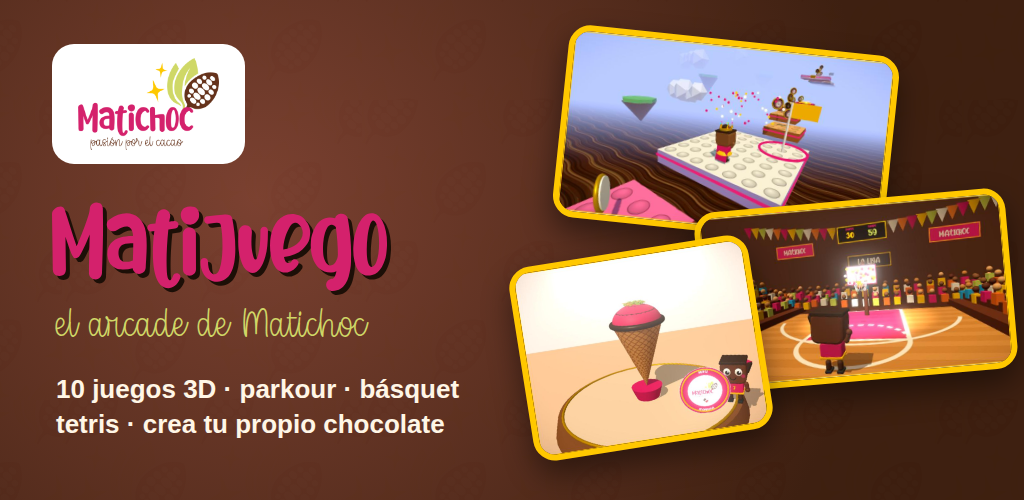
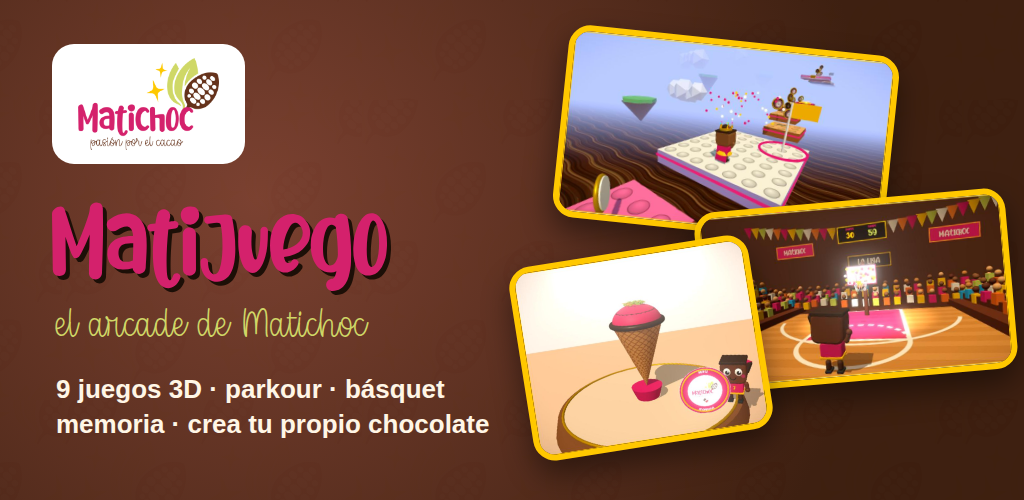
App infantil: sin Choco Blaster (ni su logro), apodos en vez de nombres, textos de la ficha y guía actualizados
Claude-Session: https://claude.ai/code/session_01RNcuEEBSVAK2hQJV4aj3Vh

Changed region(s): [[0.0312, 0.75, 0.5, 0.87]]

diff --git a/app/index.html b/app/index.html
@@ -26,7 +26,7 @@
       <div id="profile-grid" class="profile-grid"></div>
 
       <div id="new-profile-form" class="new-profile-form hidden">
-        <input id="new-profile-name" class="text-input" type="text" maxlength="16" placeholder="Nombre del jugador">
+        <input id="new-profile-name" class="text-input" type="text" maxlength="16" placeholder="Nombre o apodo">
         <div class="menu-secondary-row">
           <button id="btn-create-profile" class="btn-primary">Crear perfil</button>
           <button id="btn-cancel-profile" class="btn-secondary">Cancelar</button>
@@ -67,7 +67,7 @@
           <div class="lb-stage-actions">
             <button id="btn-open-shop" class="btn-primary lb-shop">👕 Vestuario y Tienda</button>
           </div>
-          <label class="field-label" for="input-name">Tu nombre en los puntajes</label>
+          <label class="field-label" for="input-name">Tu apodo en los puntajes</label>
           <input id="input-name" class="text-input lb-name" type="text" maxlength="16" placeholder="Jugador">
         </aside>
 
@@ -412,85 +412,7 @@
     </div>
   </section>
 
-  <!-- PANTALLA DE JUEGO: CHOCO BLASTER 3D (primera persona, propuesta) -->
-  <section id="screen-fps" class="screen game-screen hidden">
-    <div id="fps-hud" class="hud fps-hud">
-      <div class="hud-left">
-        <button id="fps-btn-menu" class="btn-icon" title="Volver al menú">🏠</button>
-        <img id="fps-hud-avatar" class="hud-avatar" alt="">
-        <div>
-          <div class="hud-level">Choco Blaster 3D</div>
-          <div class="hud-mission">Baña de chocolate a los malvaviscos</div>
-        </div>
-      </div>
-      <div class="hud-right">
-        <div class="hud-chip">⭐ <span id="fps-hud-score">0</span></div>
-        <div class="hud-chip">🌊 <span id="fps-hud-wave">0</span></div>
-        <div class="hud-chip">🔥 <span id="fps-hud-combo">x1</span></div>
-        <div class="hud-chip">🍫✨ <span id="fps-hud-coins">0</span></div>
-        <button id="fps-btn-full" class="btn-icon" title="Pantalla completa">⛶</button>
-        <button id="fps-btn-mute" class="btn-icon" title="Silenciar sonido">🔊</button>
-      </div>
-    </div>
-
-    <div id="fps-canvas-wrap" class="canvas-wrap fps-wrap">
-      <canvas id="fps-canvas"></canvas>
-      <div class="fps-crosshair" aria-hidden="true"><i></i><i></i><i></i><i></i></div>
-      <div id="fps-hitmarker" class="fps-hitmarker" aria-hidden="true"></div>
-      <div id="fps-vignette" class="fps-vignette" aria-hidden="true"></div>
-      <div id="fps-banner" class="fps-banner" aria-live="polite"></div>
-      <div id="fps-popups" class="fps-popups" aria-hidden="true"></div>
-      <div class="fps-hud-bottom">
-        <div id="fps-hearts" class="fps-hearts" aria-label="Vidas"></div>
-        <div class="fps-ammo">
-          <span id="fps-ammo">12/12</span>
-          <div class="fps-reload"><i id="fps-reload-bar"></i></div>
-        </div>
-      </div>
-
-      <div id="fps-touch" class="fps-touch">
-        <div id="fps-joy-zone" class="fps-joy-zone"><div class="fps-joy-base"><div id="fps-joy-knob" class="fps-joy-knob"></div></div></div>
-        <div id="fps-look-zone" class="fps-look-zone"></div>
-        <button id="fps-btn-fire" class="fps-tbtn fps-tbtn-fire" aria-label="Disparar">🍫</button>
-        <button id="fps-btn-jump" class="fps-tbtn fps-tbtn-jump" aria-label="Saltar">⤴</button>
-        <button id="fps-btn-reload" class="fps-tbtn fps-tbtn-reload" aria-label="Recargar">⟳</button>
-      </div>
-
-      <div id="fps-overlay-intro" class="overlay hidden">
-        <div class="overlay-card">
-          <h2>Choco Blaster 3D</h2>
-          <p class="fps-tag">Propuesta jugable · primera persona</p>
-          <p>Los malvaviscos se colaron a la feria de Matichoc. ¡Báñalos de chocolate
-            con tu Choco Blaster antes de que te abracen! Apunta a la cabeza para
-            un cabezazo (daño doble) y encadena baños para subir el combo.</p>
-          <p class="fps-controls-hint fps-pc-hint"><b>PC:</b> mouse para apuntar · click para disparar · WASD moverse ·
-            ESPACIO saltar · SHIFT correr · R recargar · ESC pausa.</p>
-          <p class="fps-controls-hint fps-mobile-hint"><b>Celular:</b> joystick a la izquierda para moverte, arrastra a la derecha para mirar, 🍫 para disparar.</p>
-          <button class="btn-primary" id="fps-btn-start">¡A la feria!</button>
-        </div>
-      </div>
-
-      <div id="fps-overlay-paused" class="overlay hidden">
-        <div class="overlay-card">
-          <h2>Pausa</h2>
-          <p>Haz click para volver a la acción.</p>
-          <button class="btn-primary" id="fps-btn-resume">Continuar</button>
-          <button class="btn-secondary overlay-secondary-btn" id="fps-btn-paused-menu">Volver al menú</button>
-        </div>
-      </div>
-
-      <div id="fps-overlay-gameover" class="overlay hidden">
-        <div class="overlay-card">
-          <h2>¡Te abrazaron los malvaviscos!</h2>
-          <p id="fps-gameover-text"></p>
-          <button class="btn-primary" id="fps-btn-retry">Reintentar</button>
-          <button class="btn-secondary overlay-secondary-btn" id="fps-btn-gameover-menu">Volver al menú</button>
-        </div>
-      </div>
-    </div>
-  </section>
-
-  <!-- PANTALLA DE JUEGO 3D: SALTO CHOCO 3D -->
+<!-- PANTALLA DE JUEGO 3D: SALTO CHOCO 3D -->
   <section id="screen-salto" class="screen game-screen hidden">
     <div id="salto-hud" class="hud">
       <div class="hud-left">

diff --git a/js/games-catalog.js b/js/games-catalog.js
@@ -3,7 +3,11 @@
 // lo único que cambia es la mecánica y las canchas de cada modo.
 // Ver ROADMAP.md para el plan de etapas de cada juego "próximamente".
 
-export const GAMES_CATALOG = [
+// En la app de tienda (data-app="1") se ocultan los juegos marcados con `appHidden`:
+// la app está pensada para público infantil y no incluye juegos de "disparos".
+const IN_APP = typeof document !== "undefined" && document.documentElement.dataset.app === "1";
+
+const ALL_GAMES = [
   {
     id: "recolecta",
     name: "Recolecta y Corre",
@@ -74,6 +78,7 @@ export const GAMES_CATALOG = [
     icon: "🎯",
     tagline: "Primera persona: baña de chocolate a los malvaviscos traviesos.",
     status: "available",
+    appHidden: true,
     tag: "3D",
   },
   {
@@ -85,3 +90,5 @@ export const GAMES_CATALOG = [
     tag: "3D",
   },
 ];
+
+export const GAMES_CATALOG = ALL_GAMES.filter((g) => !(IN_APP && g.appHidden));

diff --git a/js/achievements.js b/js/achievements.js
@@ -4,7 +4,9 @@
 
 import { getBestScore } from "./storage.js";
 
-export const ACHIEVEMENTS = [
+const IN_APP = typeof document !== "undefined" && document.documentElement.dataset.app === "1";
+
+const ALL_ACHIEVEMENTS = [
   {
     id: "primeros_pasos",
     name: "Primeros pasos",
@@ -59,6 +61,7 @@ export const ACHIEVEMENTS = [
     icon: "🎯",
     reward: 25,
     desc: "Consigue 1500 puntos en Choco Blaster 3D.",
+    appHidden: true, // Choco Blaster no va en la app infantil
     isDone: (p) => getBestScore(p, "fps3d") >= 1500,
   },
   {
@@ -118,3 +121,5 @@ export const ACHIEVEMENTS = [
     isDone: (p) => getBestScore(p, "porristas") >= 80,
   },
 ];
+
+export const ACHIEVEMENTS = ALL_ACHIEVEMENTS.filter((a) => !(IN_APP && a.appHidden));

diff --git a/js/main.js b/js/main.js
@@ -36,7 +36,7 @@ const ALL_SCREENS = [
   screenProfiles, screenHub, screenShop, screenLeaderboard, screenAchievements,
     screenFps,
   ...Object.values(screen3d),
-];
+].filter(Boolean); // (en la app infantil no existe la pantalla de Choco Blaster)
 
 const grid = document.getElementById("character-grid");
 const gameGrid = document.getElementById("game-grid");

diff --git a/store/listing-es.md b/store/listing-es.md
@@ -4,12 +4,12 @@
 Matijuego
 
 ## Descripción breve (máx. 80 caracteres)
-Parkour, básquet, tetris y más: el arcade 3D de Matichoc para toda la familia
+Parkour, básquet, memoria y más: juegos 3D de Matichoc para niñas y niños
 
 ## Descripción completa (máx. 4000 caracteres)
 ¡Bienvenido al Matijuego, el arcade de Matichoc! 🍫
 
-Elige a tu Matichico, vístelo con atuendos que ganas con monedas del juego y salta a más de 10 aventuras en 3D hechas con mucho cacao:
+Elige a tu Matichico, vístelo con atuendos que ganas con monedas del juego y juega 9 aventuras en 3D hechas con mucho cacao:
 
 🧗 PARKOUR CHOCO — Corre y salta por 6 etapas de plataformas que se mueven, se rompen o parpadean. Desbloquea una capa, gafas brillantes y una corona dorada mientras avanzas.
 
@@ -23,15 +23,13 @@ Elige a tu Matichico, vístelo con atuendos que ganas con monedas del juego y sa
 
 🦘 SALTO CHOCO · 🏎 AUTOS DE CHOCOLATE · 🧠 MEMORIA MATICHOC — Más aventuras: sube sin parar, esquiva en la ruta y encuentra las parejas de golosinas.
 
-🎯 CHOCO BLASTER — Primera persona: baña de chocolate a los malvaviscos traviesos de la feria.
-
 🍫 CREA TU CHOCOLATE — Elige el producto, el sabor, los toppings, el envoltorio y diseña tu propia etiqueta. ¡Cada día hay un reto con monedas!
 
 Además:
-• Perfiles para toda la familia: cada persona guarda sus puntajes, monedas y logros.
+• Perfiles para cada niña o niño de la casa: cada uno guarda sus puntajes, monedas y logros.
 • Tabla de mejores puntajes por juego y recompensa diaria.
 • Gratis, sin publicidad y sin compras dentro del juego.
-• No pide cuentas ni datos personales: todo se guarda en tu celular.
+• Sin chat ni enlaces externos. No pide cuentas ni datos personales: todo se guarda en el celular.
 
 Un juego promovido por Matichoc · pasión por el cacao.
 
@@ -54,10 +52,8 @@ Arcade, Aventura, Familia, Niños, 3D
 **Acceso a la app:** Todo el contenido es accesible sin iniciar sesión ni credenciales.
 **Seguridad de los datos:** No recopila ni comparte datos. Los datos del juego se guardan solo en el dispositivo. (Marcar "no recopila ningún dato de usuario requerido".)
 **Eliminación de datos:** no aplica; el usuario puede borrar los datos de la app o desinstalarla.
-**Clasificación de contenido (cuestionario IARC):**
-  - Violencia: el único juego con "disparos" es Choco Blaster, donde se lanza chocolate a malvaviscos de fantasía, sin sangre. Respóndelo con honestidad (violencia fantástica leve); puede resultar en una clasificación para mayores de 7 o 10 años. Si prefieres la clasificación más baja, puedes sacar ese juego de la app (se puede hacer en una versión posterior).
-  - Sin contenido sexual, sin lenguaje fuerte, sin drogas ni apuestas, sin compras, sin chat ni contenido generado por usuarios visible a otros.
-**Público objetivo y contenido:** si marcas niños (menores de 13), la app entra a la política "Diseñada para familias": requiere política de privacidad (ya está), no tener anuncios (no tiene) y no recolectar datos personales (no recolecta). Decisión tuya.
+**Clasificación de contenido (cuestionario IARC):** la app para niños **no incluye Choco Blaster** (el juego de "disparos"). Respuestas: sin violencia, sin sangre, sin contenido sexual, sin lenguaje fuerte, sin drogas ni apuestas, sin compras, sin chat ni contenido de usuarios visible para otros, sin ubicación compartida. Debería resultar una clasificación para todo público. (Los obstáculos de Parkour y los choques de Autos de Chocolate son de caricatura: si el cuestionario pregunta por "violencia de dibujos animados", responde con lo que mejor lo describa; no hay daño a personajes ni sangre.)
+**Público objetivo y contenido:** marcar rangos de edad infantiles (por ejemplo 5 o menos, 6-8 y 9-12). Eso incluye la app en el programa **"Diseñada para familias"** de Google. Requisitos que ya cumple: sin anuncios, sin recolección de datos personales, sin enlaces externos, con política de privacidad. Pide que la ficha tenga un correo de contacto válido y que el contenido sea apropiado para niños en toda la app.
 **Permisos:** solo internet (lo agrega el motor de la app; el juego funciona sin conexión).
 
 ## Material gráfico (en esta carpeta)

diff --git a/docs/PLAY-STORE.md b/docs/PLAY-STORE.md
@@ -4,6 +4,7 @@ La app de Android es **el mismo juego** empaquetado con [Capacitor](https://capa
 
 - **Sin enlaces a matichoc.cl** (ni a la tienda, ni a "La Maestra", ni el botón de WhatsApp del creador de chocolates).
 - Se conserva el logo de Matichoc y aparece el crédito **"Un juego promovido por Matichoc"** en el menú.
+- **Sin Choco Blaster** (el juego de disparos): la app queda con 9 juegos, pensados para niñas y niños pequeños.
 - Pantalla completa, sin barra de estado, y respeta la muesca de la cámara.
 - Funciona sin conexión (todo va dentro de la app; no hace falta dominio ni servidor).
 
@@ -27,8 +28,8 @@ La web de matichoc.cl/matijuego **no cambia**: sigue con sus enlaces.
 1. **Nombre público**: "Matijuego" (hoy). Máx. 30 caracteres.
 2. **ID del paquete**: `cl.matichoc.matijuego`. **No se puede cambiar una vez publicada la app.** Si prefieres otro (por ejemplo `cl.matichoc.arcade`), avísame antes del paso 4.
 3. **Correo de contacto público** y **política de privacidad**: usé los datos legales que ya publica matichoc.cl (Chocolatería Matichoc Inés Saavedra EIRL, i.saavedra.nu@gmail.com). Confirma que quieres mostrarlos en Google Play.
-4. **¿Choco Blaster dentro de la app?** Es el único juego con "disparos" (de chocolate a malvaviscos, sin sangre) y puede subir la clasificación por edad. Se puede dejar o sacar.
-5. **Público objetivo**: si marcas niños (menos de 13 años), Google exige cumplir su política "Diseñada para familias" (el juego ya cumple lo principal: sin anuncios, sin datos personales, con política de privacidad).
+4. ~~¿Choco Blaster dentro de la app?~~ **Decidido: no.** La app es solo para público infantil, así que Choco Blaster (el único juego con "disparos") queda fuera de la app. En la web de matichoc.cl sigue.
+5. ~~Público objetivo~~ **Decidido: niñas y niños pequeños.** Al marcar rangos de edad infantiles, Google incluye la app en su política "Diseñada para familias": el juego ya cumple lo principal (sin anuncios, sin datos personales, sin enlaces externos, con política de privacidad). Los nombres de perfil se piden como "apodo".
 
 ### 1. Cuenta de desarrollador de Google Play
 1. Entra a <https://play.google.com/console> con una cuenta de Google que quieras dejar como dueña.
